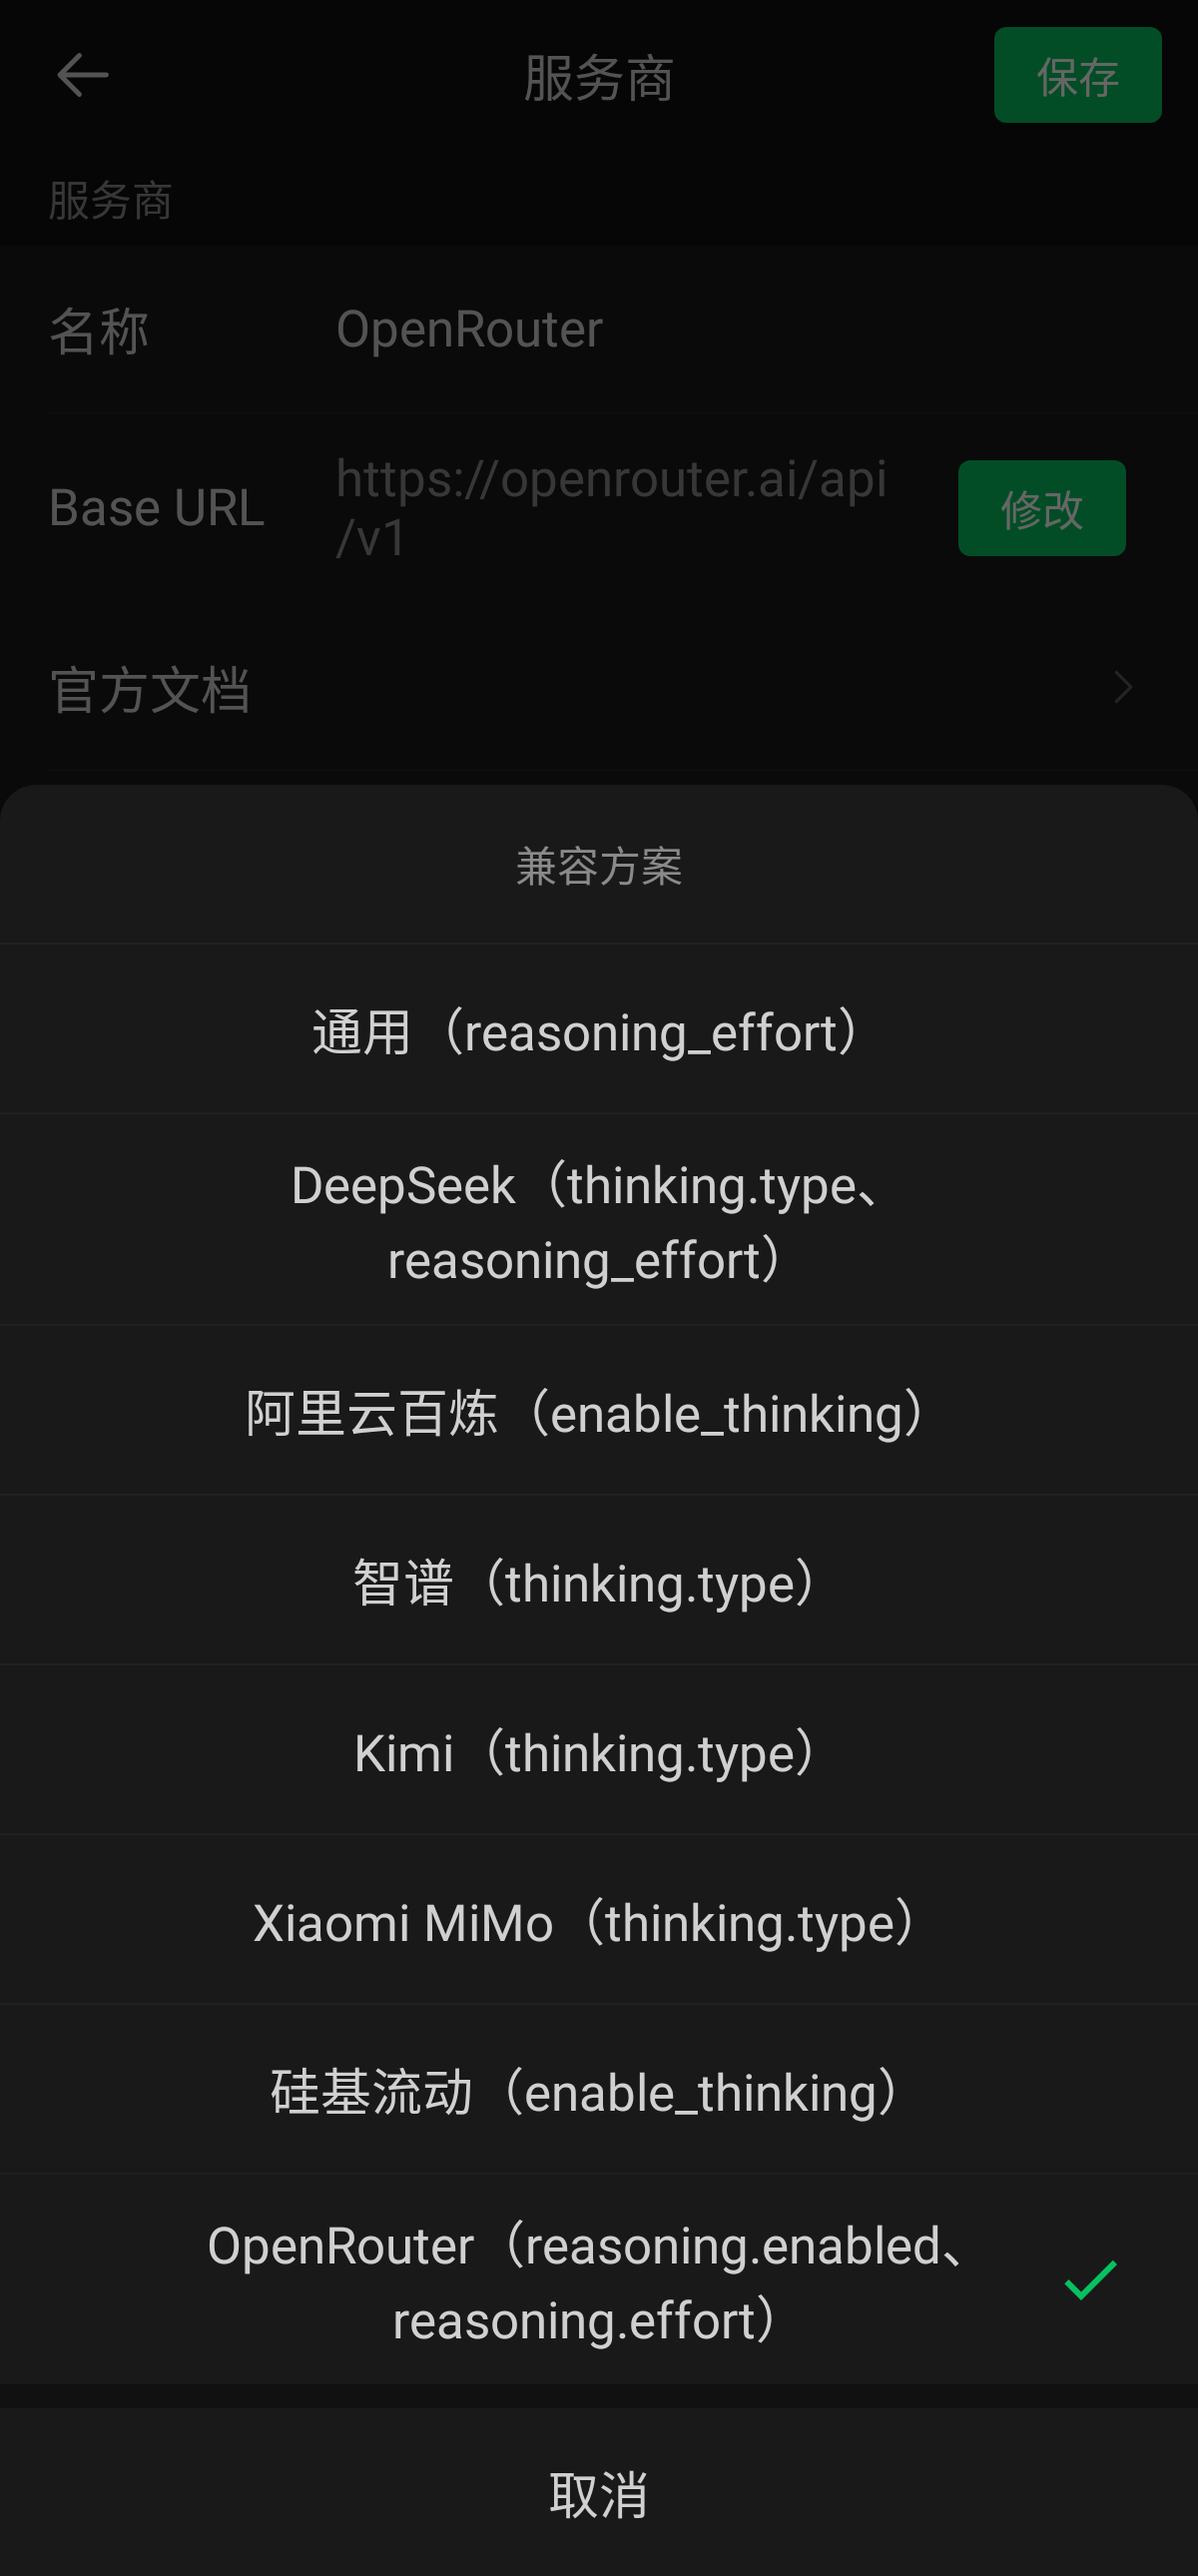
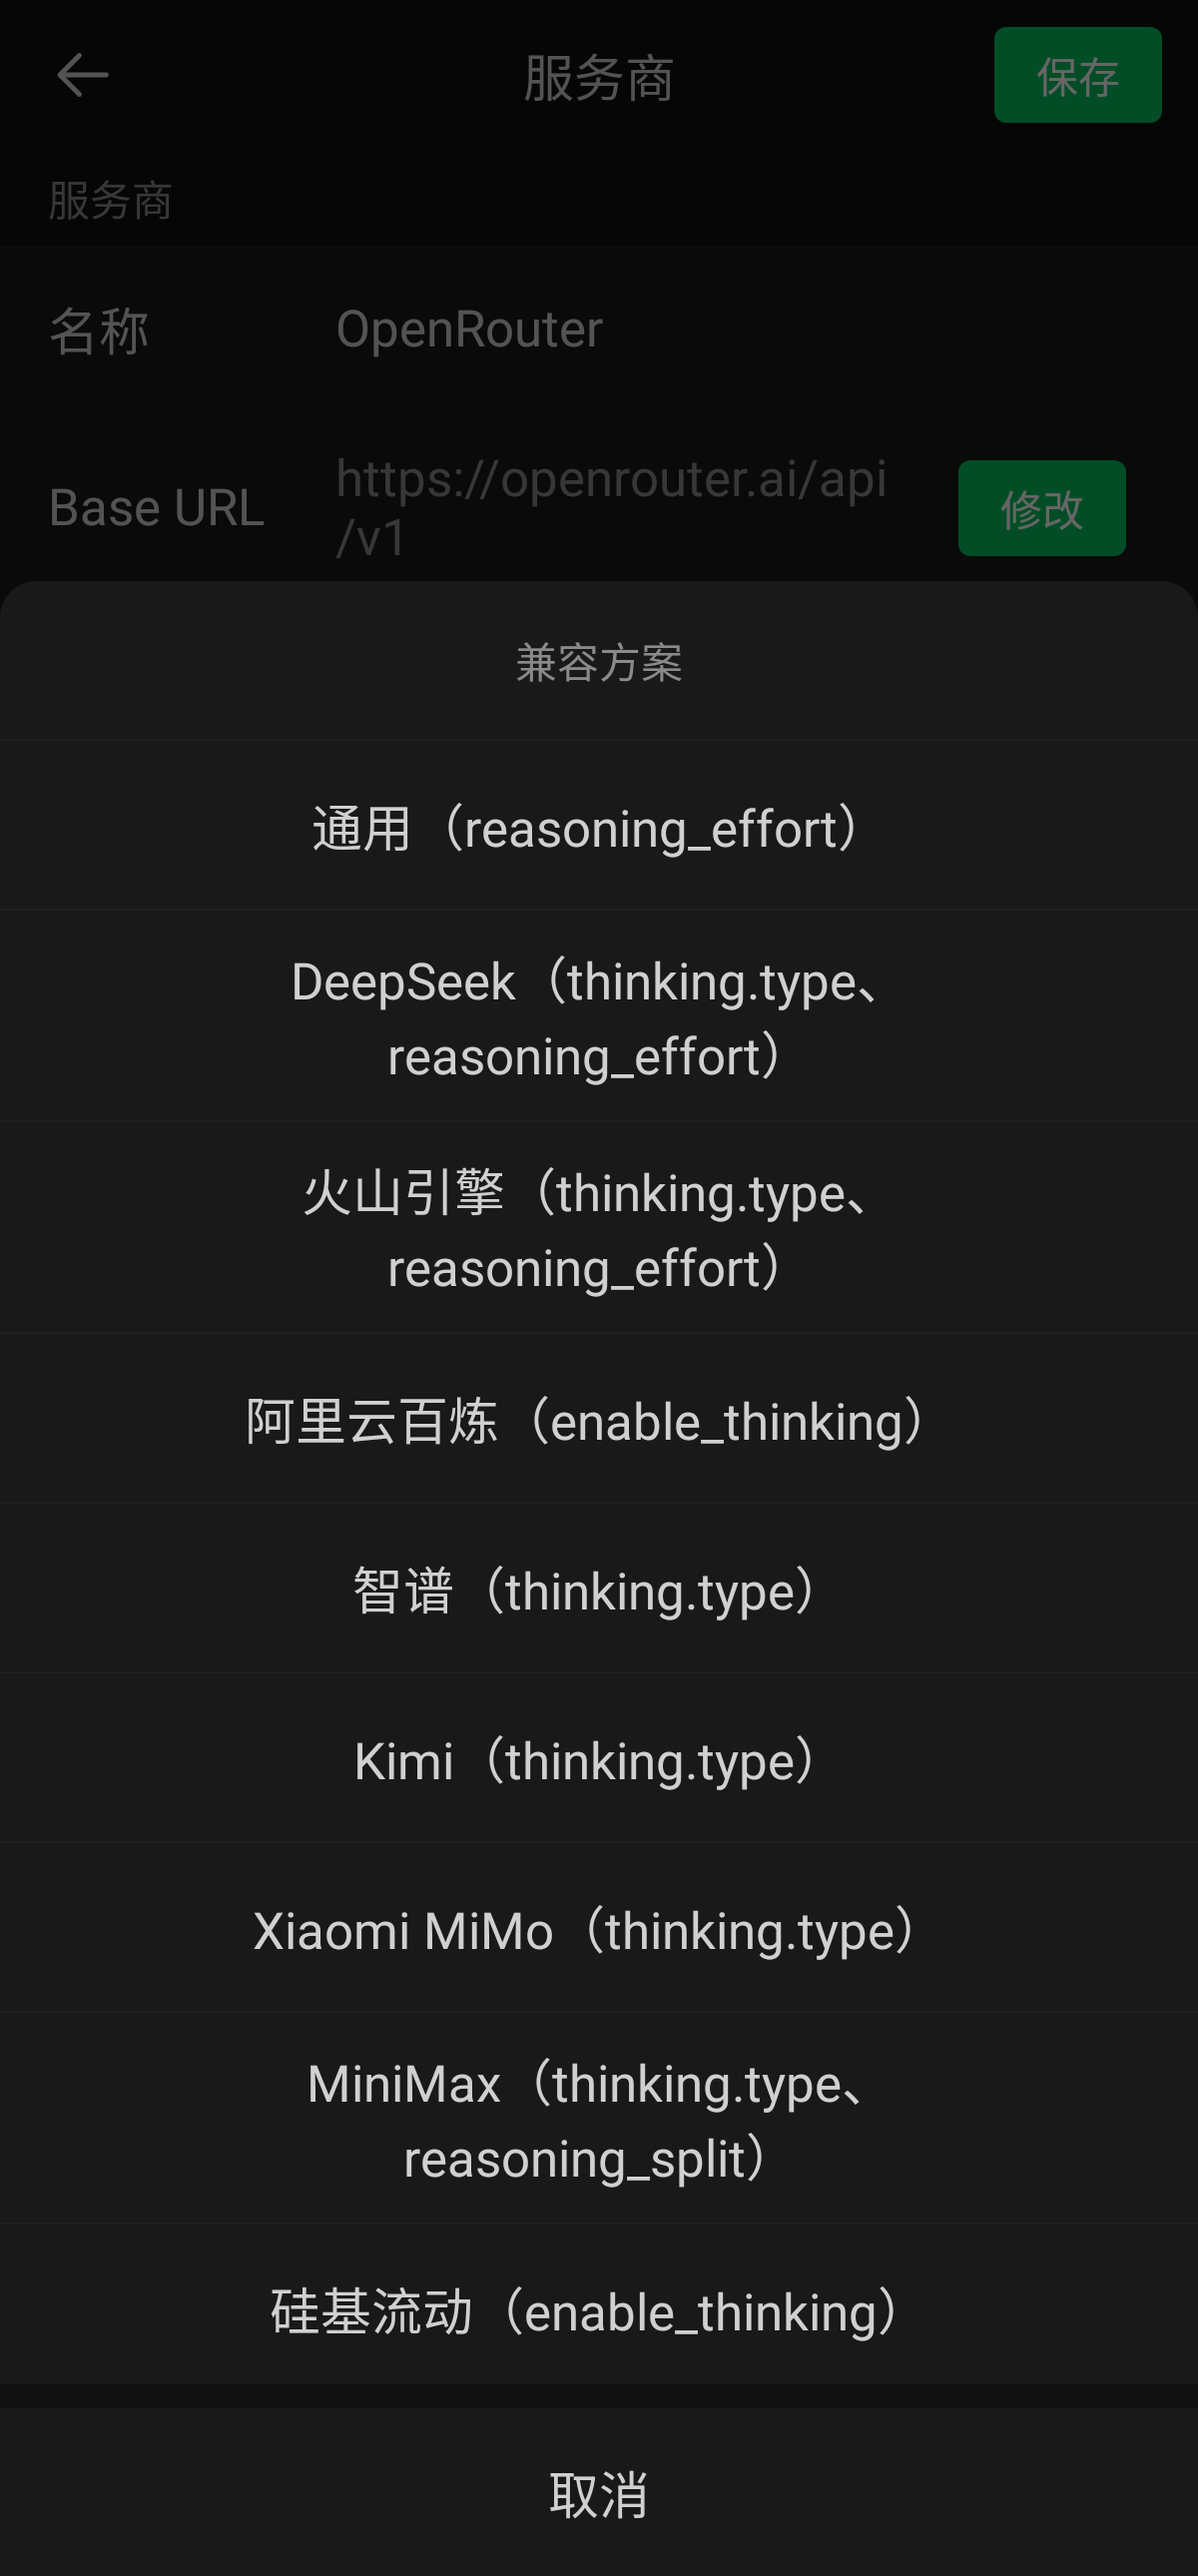
feat(llm): 大语言模型预置加入火山引擎（豆包）和 MiniMax，Kimi 改名为月之暗面（Kimi），按新顺序排列
- 火山方舟：thinking.type 开关、reasoning_effort 强度，新兼容方案 VOLCENGINE
- MiniMax：thinking.type 用 adaptive / disabled（不认 enabled），每次带 reasoning_split: true，免得思考用 <think> 夹在正文里；新兼容方案 MINIMAX 和思考字段写法 THINKING_TYPE_ADAPTIVE
- 顺序：DeepSeek、火山引擎（豆包）、阿里云百炼（千问）、BigModel（智谱）、月之暗面（Kimi）、Xiaomi MiMo、MiniMax、硅基流动、OpenRouter
- 新增预置列表截图，重录兼容方案截图

diff --git a/app/src/test/java/isomeria/aichat/data/llm/ModelRulesTest.kt b/app/src/test/java/isomeria/aichat/data/llm/ModelRulesTest.kt
@@ -108,7 +108,58 @@ class ModelRulesTest {
     }
 
     @Test fun presetsAreOnlyConnectionsInFixedOrder() {
-        assertEquals(listOf("deepseek", "qwen", "zhipu", "kimi", "mimo", "siliconflow", "openrouter"), ProviderPresets.all.map { it.id })
-        assertEquals(7, ProviderPresets.all.size)
+        // 用户 2026-11-12 定的顺序：0.7.2 加了火山引擎（豆包）和 MiniMax
+        assertEquals(listOf("deepseek", "volcengine", "qwen", "zhipu", "kimi", "mimo", "minimax", "siliconflow", "openrouter"), ProviderPresets.all.map { it.id })
+        assertEquals(9, ProviderPresets.all.size)
+        val volc = ProviderPresets.all.first { it.id == "volcengine" }
+        assertEquals("https://ark.cn-beijing.volces.com/api/v3", volc.baseUrl)
+        assertEquals(Compatibility.VOLCENGINE, volc.compatibility)
+        val minimax = ProviderPresets.all.first { it.id == "minimax" }
+        assertEquals("https://api.minimax.cn/v1", minimax.baseUrl)
+        assertEquals(Compatibility.MINIMAX, minimax.compatibility)
+        assertTrue(ProviderPresets.all.all { it.docs.startsWith("https://") })
+    }
+
+    @Test fun volcengineUsesThinkingTypeAndReasoningEffort() {
+        val on = body(Compatibility.VOLCENGINE, model(), "high")
+        assertEquals("enabled", on["thinking"]!!.jsonObject["type"]!!.jsonPrimitive.content)
+        assertEquals("high", on["reasoning_effort"]!!.jsonPrimitive.content)
+        assertTrue(on.containsKey("stream_options"))
+        val off = body(Compatibility.VOLCENGINE, model(), "off")
+        assertEquals("disabled", off["thinking"]!!.jsonObject["type"]!!.jsonPrimitive.content)
+        assertFalse(off.containsKey("reasoning_effort"))
+        // 只有开关、没有强度档位的模型不发 reasoning_effort
+        val toggle = body(Compatibility.VOLCENGINE, model(ThinkingRule(ThinkingMode.SWITCH)), "on")
+        assertEquals("enabled", toggle["thinking"]!!.jsonObject["type"]!!.jsonPrimitive.content)
+        assertFalse(toggle.containsKey("reasoning_effort"))
+        assertFalse(on.containsKey("reasoning_split"))
+    }
+
+    @Test fun minimaxUsesAdaptiveOrDisabled_andAlwaysSplitsReasoning() {
+        val on = body(Compatibility.MINIMAX, model(ThinkingRule(ThinkingMode.SWITCH)), "on")
+        assertEquals("MiniMax 不认 enabled", "adaptive", on["thinking"]!!.jsonObject["type"]!!.jsonPrimitive.content)
+        assertEquals(JsonPrimitive(true), on["reasoning_split"])
+        assertTrue(on.containsKey("stream_options"))
+        assertFalse(on.containsKey("reasoning_effort"))
+        val off = body(Compatibility.MINIMAX, model(ThinkingRule(ThinkingMode.SWITCH)), "off")
+        assertEquals("disabled", off["thinking"]!!.jsonObject["type"]!!.jsonPrimitive.content)
+        assertEquals(JsonPrimitive(true), off["reasoning_split"])
+        // M3.1-Flash：始终思考，强度放 reasoning_effort
+        val flash = model(ThinkingRule(ThinkingMode.ALWAYS, listOf("low", "medium", "high", "xhigh", "max").map { NativeEffort(it, it) }))
+        assertEquals(ConfigurationIssue.THINKING, ModelRules.validate(provider(Compatibility.MINIMAX), flash, "off", 0.7f))
+        val max = body(Compatibility.MINIMAX, flash, "max")
+        assertEquals("adaptive", max["thinking"]!!.jsonObject["type"]!!.jsonPrimitive.content)
+        assertEquals("max", max["reasoning_effort"]!!.jsonPrimitive.content)
+        // 没有思考的模型也带 reasoning_split，免得思考内容用 <think> 夹在正文里
+        assertEquals(JsonPrimitive(true), body(Compatibility.MINIMAX, model(ThinkingRule(ThinkingMode.NONE)), "off")["reasoning_split"])
+    }
+
+    @Test fun reasoningSplitFollowsTheSchemeEvenWithModelOverride() {
+        val m = model(ThinkingRule(ThinkingMode.SWITCH), override = CompatibilityOverride(ThinkingField.THINKING_TYPE, EffortField.NONE, false))
+        val b = body(Compatibility.MINIMAX, m, "on")
+        assertEquals("enabled", b["thinking"]!!.jsonObject["type"]!!.jsonPrimitive.content)
+        assertEquals(JsonPrimitive(true), b["reasoning_split"])
+        assertFalse(b.containsKey("stream_options"))
+        assertEquals("adaptive", body(Compatibility.DEEPSEEK, model(ThinkingRule(ThinkingMode.SWITCH), override = CompatibilityOverride(ThinkingField.THINKING_TYPE_ADAPTIVE)), "on")["thinking"]!!.jsonObject["type"]!!.jsonPrimitive.content)
     }
 }

diff --git a/app/src/main/java/isomeria/aichat/data/llm/ModelRules.kt b/app/src/main/java/isomeria/aichat/data/llm/ModelRules.kt
@@ -48,25 +48,37 @@ import kotlinx.serialization.json.putJsonObject
     fun over(reported: ModelConfig) = ModelConfig(chat ?: reported.chat, thinking ?: reported.thinking, temperature ?: reported.temperature)
 }
 
-/** 开关与强度分别编码；NONE 表示不支持该字段，不能用低强度冒充关闭。 */
-@Serializable enum class ThinkingField { NONE, THINKING_TYPE, ENABLE_THINKING, REASONING_ENABLED, REASONING_EFFORT }
+/**
+ * 开关与强度分别编码；NONE 表示不支持该字段，不能用低强度冒充关闭。
+ * THINKING_TYPE_ADAPTIVE（0.7.2，MiniMax）：开是 `thinking.type: "adaptive"`、关是 `"disabled"`，MiniMax 不认 `enabled`
+ */
+@Serializable enum class ThinkingField { NONE, THINKING_TYPE, THINKING_TYPE_ADAPTIVE, ENABLE_THINKING, REASONING_ENABLED, REASONING_EFFORT }
 @Serializable enum class EffortField { NONE, REASONING_EFFORT, REASONING_OBJECT }
 @Serializable data class CompatibilityOverride(
     val thinkingField: ThinkingField? = null,
     val effortField: EffortField? = null,
     val streamOptions: Boolean? = null,
 )
-data class EncodingRules(val thinkingField: ThinkingField, val effortField: EffortField, val streamOptions: Boolean = true) {
-    fun over(value: CompatibilityOverride) = EncodingRules(value.thinkingField ?: thinkingField, value.effortField ?: effortField, value.streamOptions ?: streamOptions)
+/**
+ * [reasoningSplit]（0.7.2，MiniMax）：每次请求带 `reasoning_split: true`，思考内容放进 `reasoning_content`；
+ * 不带时 MiniMax 把思考用 `<think>` 标签夹在正文里。只跟着兼容方案，模型不能单独改
+ */
+data class EncodingRules(val thinkingField: ThinkingField, val effortField: EffortField, val streamOptions: Boolean = true, val reasoningSplit: Boolean = false) {
+    fun over(value: CompatibilityOverride) =
+        EncodingRules(value.thinkingField ?: thinkingField, value.effortField ?: effortField, value.streamOptions ?: streamOptions, reasoningSplit)
 }
 enum class Compatibility(val encoding: EncodingRules) {
     LEGACY(EncodingRules(ThinkingField.NONE, EffortField.NONE)),
     GENERIC(EncodingRules(ThinkingField.REASONING_EFFORT, EffortField.REASONING_EFFORT)),
     DEEPSEEK(EncodingRules(ThinkingField.THINKING_TYPE, EffortField.REASONING_EFFORT)),
+    /** 火山方舟（0.7.2）：thinking.type 开关，部分模型认 reasoning_effort */
+    VOLCENGINE(EncodingRules(ThinkingField.THINKING_TYPE, EffortField.REASONING_EFFORT)),
     QWEN(EncodingRules(ThinkingField.ENABLE_THINKING, EffortField.NONE)),
     ZHIPU(EncodingRules(ThinkingField.THINKING_TYPE, EffortField.NONE, false)),
     KIMI(EncodingRules(ThinkingField.THINKING_TYPE, EffortField.NONE, false)),
     MIMO(EncodingRules(ThinkingField.THINKING_TYPE, EffortField.NONE, false)),
+    /** MiniMax（0.7.2）：thinking.type 是 adaptive / disabled，M3.1-Flash 认 reasoning_effort，带 reasoning_split */
+    MINIMAX(EncodingRules(ThinkingField.THINKING_TYPE_ADAPTIVE, EffortField.REASONING_EFFORT, true, reasoningSplit = true)),
     SILICONFLOW(EncodingRules(ThinkingField.ENABLE_THINKING, EffortField.NONE, false)),
     OPENROUTER(EncodingRules(ThinkingField.REASONING_ENABLED, EffortField.REASONING_OBJECT)),
 }
@@ -218,6 +230,7 @@ object ConfiguredRequestBuilder {
             when (p.encoding.thinkingField) {
                 ThinkingField.NONE -> Unit
                 ThinkingField.THINKING_TYPE -> putJsonObject("thinking") { put("type", if (enabled) "enabled" else "disabled") }
+                ThinkingField.THINKING_TYPE_ADAPTIVE -> putJsonObject("thinking") { put("type", if (enabled) "adaptive" else "disabled") }
                 ThinkingField.ENABLE_THINKING -> put("enable_thinking", enabled)
                 ThinkingField.REASONING_ENABLED -> putJsonObject("reasoning") {
                     put("enabled", enabled)
@@ -234,5 +247,6 @@ object ConfiguredRequestBuilder {
             }
         }
         p.temperature?.let { put("temperature", it) }
+        if (p.encoding.reasoningSplit) put("reasoning_split", true)
     }
 }

diff --git a/app/src/main/java/isomeria/aichat/data/llm/ProviderPresets.kt b/app/src/main/java/isomeria/aichat/data/llm/ProviderPresets.kt
@@ -2,15 +2,20 @@ package isomeria.aichat.data.llm
 
 import isomeria.aichat.R
 
-/** 品牌预置只填新表单，不参与已保存地址的运行时解析。 */
+/**
+ * 品牌预置只填新表单，不参与已保存地址的运行时解析。
+ * 顺序（用户 2026-11-12 定）：DeepSeek、火山引擎（豆包）、阿里云百炼（千问）、BigModel（智谱）、月之暗面（Kimi）、Xiaomi MiMo、MiniMax、硅基流动、OpenRouter
+ */
 data class ProviderPreset(val id: String, val nameRes: Int, val baseUrl: String, val compatibility: Compatibility, val docs: String)
 object ProviderPresets {
     val all = listOf(
         ProviderPreset("deepseek", R.string.preset_deepseek, "https://api.deepseek.com", Compatibility.DEEPSEEK, "https://api-docs.deepseek.com/"),
+        ProviderPreset("volcengine", R.string.preset_volcengine, "https://ark.cn-beijing.volces.com/api/v3", Compatibility.VOLCENGINE, "https://www.volcengine.com/docs/82379/1494384"),
         ProviderPreset("qwen", R.string.preset_qwen, "https://{WorkspaceId}.cn-beijing.maas.aliyuncs.com/compatible-mode/v1", Compatibility.QWEN, "https://help.aliyun.com/zh/model-studio/qwen-api-via-openai-chat-completions"),
         ProviderPreset("zhipu", R.string.preset_zhipu, "https://open.bigmodel.cn/api/paas/v4", Compatibility.ZHIPU, "https://docs.bigmodel.cn/api-reference/模型-api/对话补全"),
         ProviderPreset("kimi", R.string.preset_kimi, "https://api.moonshot.cn/v1", Compatibility.KIMI, "https://platform.kimi.com/docs/api/chat"),
         ProviderPreset("mimo", R.string.preset_mimo, "https://api.xiaomimimo.com/v1", Compatibility.MIMO, "https://mimo.mi.com/docs/zh-CN/api/chat/openai-api"),
+        ProviderPreset("minimax", R.string.preset_minimax, "https://api.minimax.cn/v1", Compatibility.MINIMAX, "https://platform.minimax.cn/docs/api-reference/text-openai-api"),
         ProviderPreset("siliconflow", R.string.preset_siliconflow, "https://api.siliconflow.cn/v1", Compatibility.SILICONFLOW, "https://docs.siliconflow.cn/docs/api/chat-completions-post"),
         ProviderPreset("openrouter", R.string.preset_openrouter, "https://openrouter.ai/api/v1", Compatibility.OPENROUTER, "https://openrouter.ai/docs/guides/best-practices/reasoning-tokens"),
     )

diff --git a/app/src/test/java/isomeria/aichat/screenshot/ScreenshotTest.kt b/app/src/test/java/isomeria/aichat/screenshot/ScreenshotTest.kt
@@ -485,6 +485,20 @@ class ScreenshotTest {
     @Test fun compatSheetLight() = advancedShot(false)
     @Test fun compatSheetDark() = advancedShot(true)
 
+    /** 0.7.2：大语言模型的预置列表（9 家，用户定的顺序） */
+    private fun presetSheetShot(dark: Boolean) {
+        compose.setContent {
+            AIChatTheme(darkTheme = dark) {
+                Box(Modifier.fillMaxSize().background(WeTheme.colors.pageBackground)) { ProviderEditSample(modelListState.copy(providerId = null, presetId = "deepseek", compatibility = "DEEPSEEK")) }
+            }
+        }
+        compose.onNodeWithText("服务商预置", substring = true).performClick()
+        compose.waitForIdle()
+        captureScreenRoboImage("screenshots/32-preset-sheet-${if (dark) "dark" else "light"}.png")
+    }
+    @Test fun presetSheetLight() = presetSheetShot(false)
+    @Test fun presetSheetDark() = presetSheetShot(true)
+
     private fun modelAdvancedShot(dark: Boolean) {
         compose.setContent {
             AIChatTheme(darkTheme = dark) {

diff --git a/app/src/main/java/isomeria/aichat/feature/settings/ProviderEditScreen.kt b/app/src/main/java/isomeria/aichat/feature/settings/ProviderEditScreen.kt
@@ -438,10 +438,12 @@ internal fun compatibilityLabel(value: Compatibility): Int = when (value) {
     Compatibility.LEGACY -> R.string.compat_legacy
     Compatibility.GENERIC -> R.string.compat_generic
     Compatibility.DEEPSEEK -> R.string.compat_deepseek
+    Compatibility.VOLCENGINE -> R.string.compat_volcengine
     Compatibility.QWEN -> R.string.compat_qwen
     Compatibility.ZHIPU -> R.string.compat_zhipu
     Compatibility.KIMI -> R.string.compat_kimi
     Compatibility.MIMO -> R.string.compat_mimo
+    Compatibility.MINIMAX -> R.string.compat_minimax
     Compatibility.SILICONFLOW -> R.string.compat_siliconflow
     Compatibility.OPENROUTER -> R.string.compat_openrouter
 }

diff --git a/app/src/main/java/isomeria/aichat/feature/settings/ModelEditScreen.kt b/app/src/main/java/isomeria/aichat/feature/settings/ModelEditScreen.kt
@@ -242,6 +242,7 @@ fun ModelEditContent(state: ModelEditState, onBack: () -> Unit, onChange: (Provi
 @Composable internal fun thinkingFieldLabel(field: ThinkingField): String = when (field) {
     ThinkingField.NONE -> stringResource(R.string.rule_no_send)
     ThinkingField.THINKING_TYPE -> "thinking.type"
+    ThinkingField.THINKING_TYPE_ADAPTIVE -> "thinking.type (adaptive / disabled)"
     ThinkingField.ENABLE_THINKING -> "enable_thinking"
     ThinkingField.REASONING_ENABLED -> "reasoning.enabled"
     ThinkingField.REASONING_EFFORT -> "reasoning_effort"
